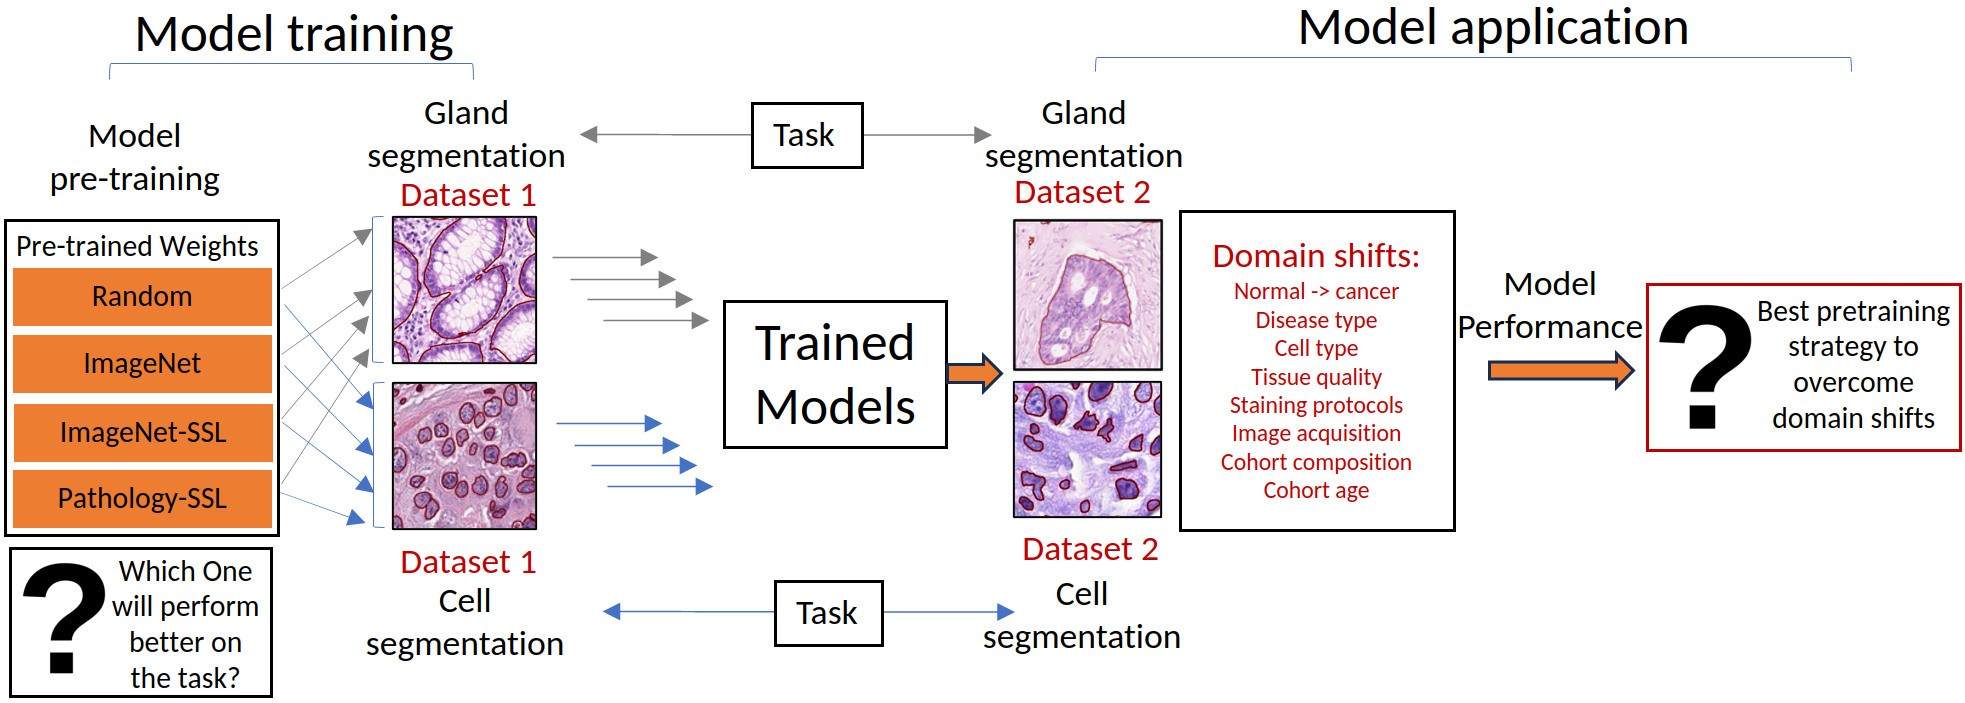
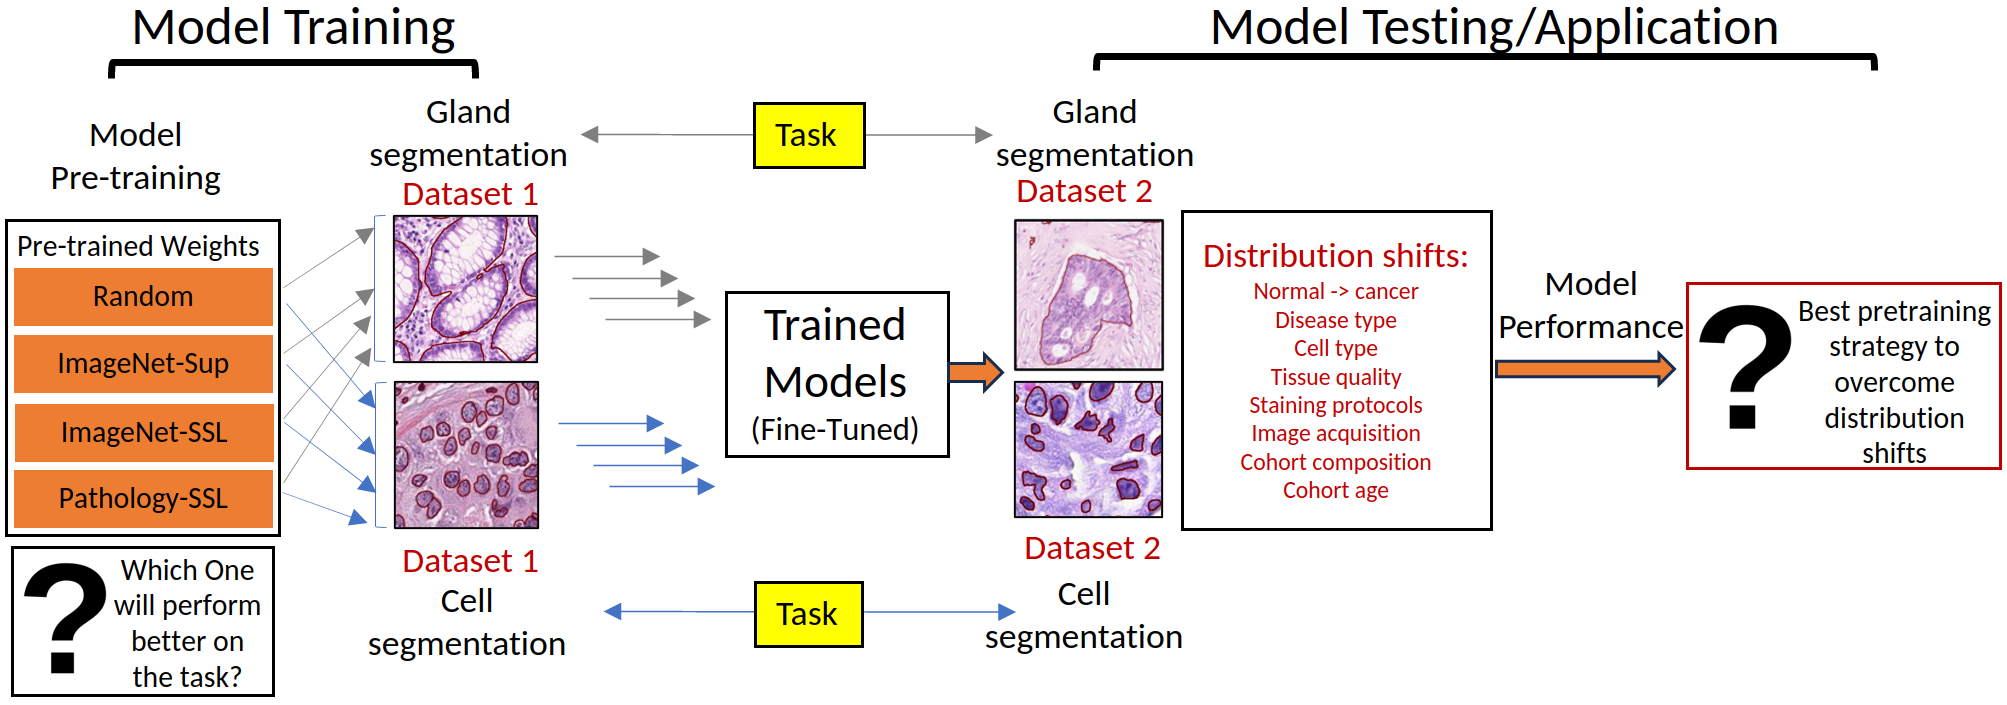
Updating the image and Readme

diff --git a/README.md b/README.md
@@ -10,10 +10,11 @@ This Repository is Linked to Code and Results for the paper published in "MILLan
 
 # Study Design
 <img src='images/Figure-flow-diagram.png'>
-Figure 1:- Do different weight initialization matter? The study is designed from the perspective of an AI user who can choose between multiple pretrained model options for a given task. The best pretrained model is the one that is least effected domain shift. This study provides a framework to choose amongst pretrained models and select the most advantageous for the task.
+Figure-1 : **Do different weight initialization matter?** The study is designed from the perspective of an AI user who can choose between multiple pretrained models (domain or non-domain, supervised or self-supervised) options for a given task. The best pretrained model is the one that has the highest accuracy on the task and is least affected by distribution shifts. This study provides a framework to choose amongst pretrained models and select the most advantageous for the task.
 
 ```
-Note :- This repository is still under construction. Please wait until this note has been removed before using the associated code.
+Note :- This repository is still under construction. 
+Please wait until this note has been removed before using the associated code.
 
 ```
 
